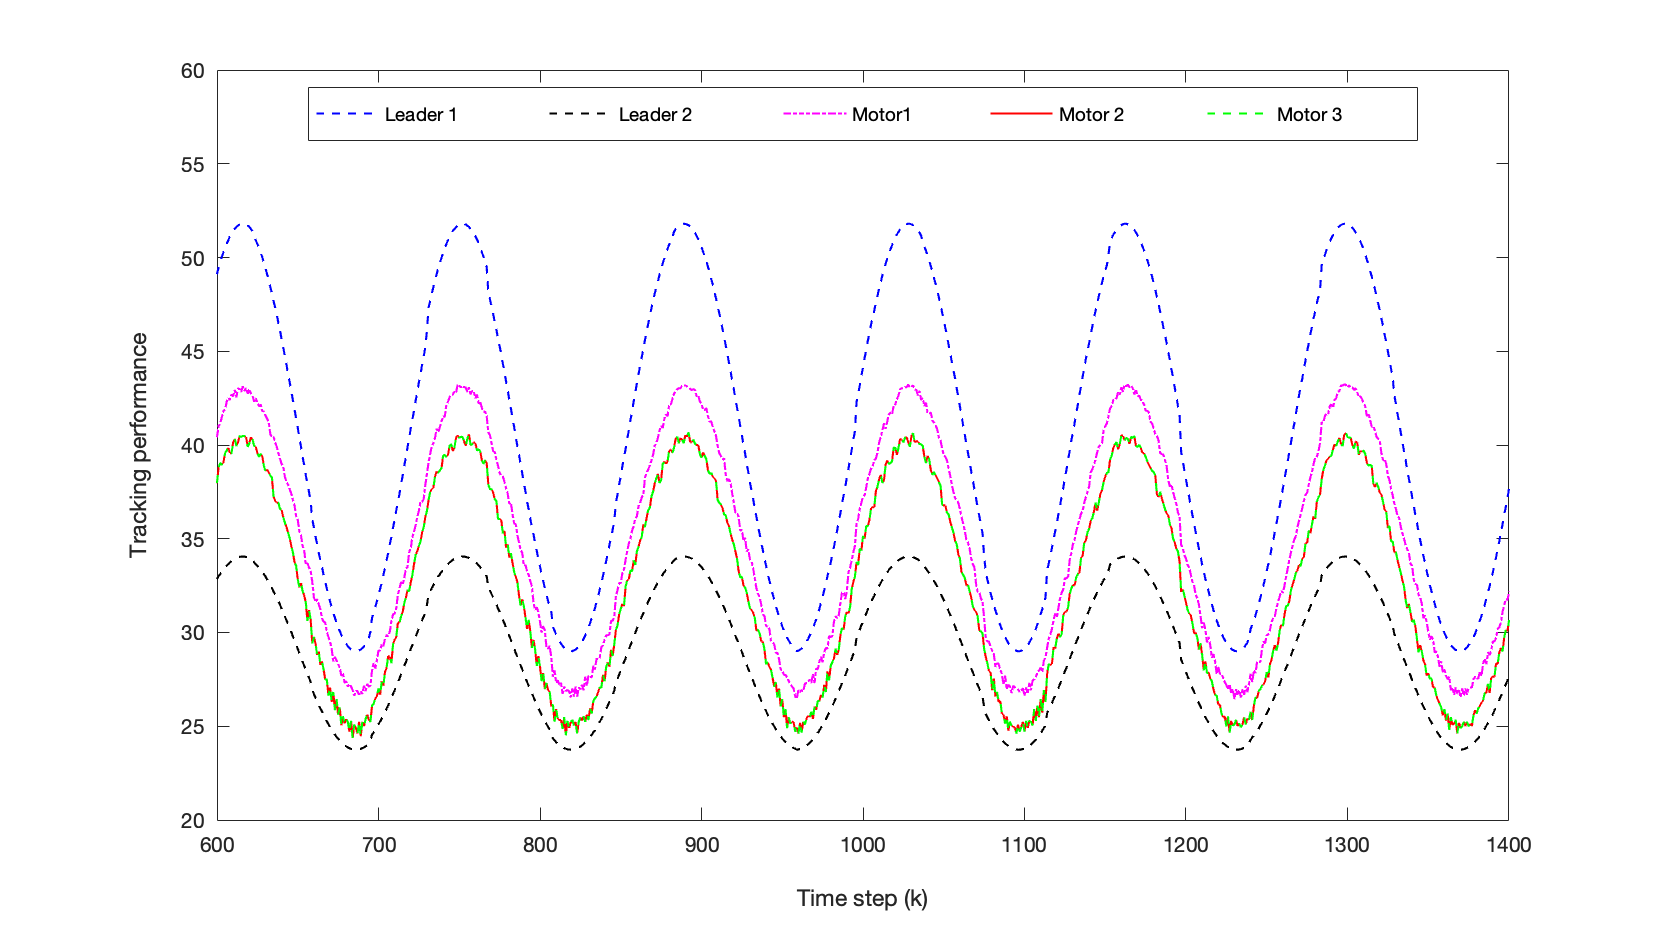
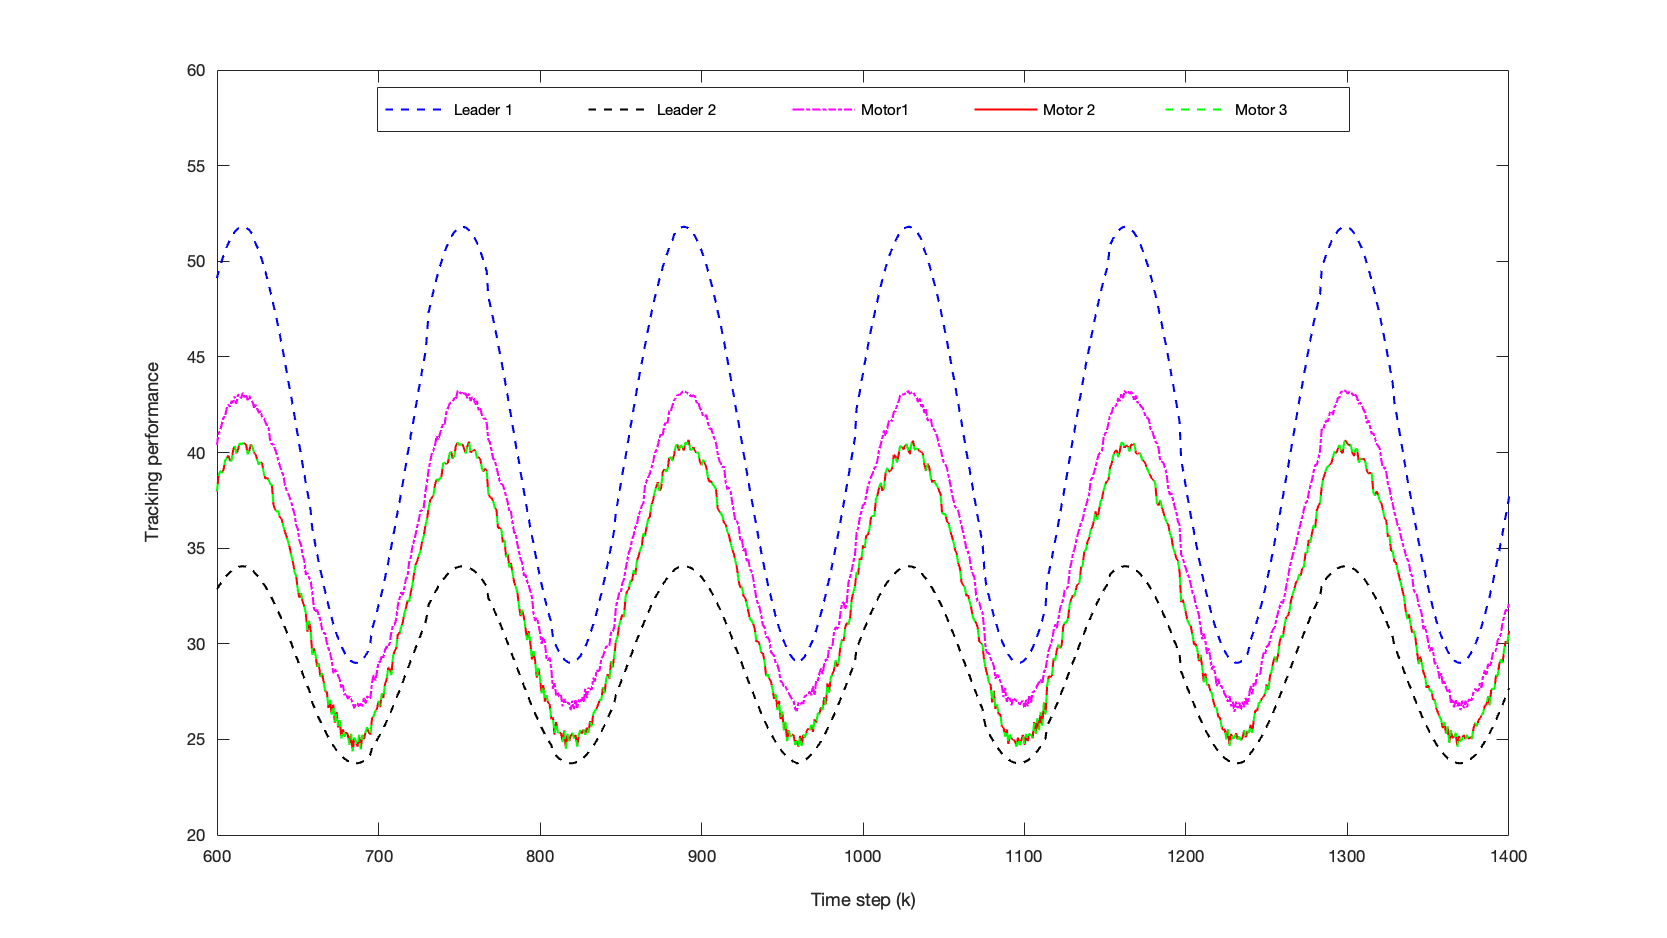
update the experimental image

diff --git a/dataplot.m b/dataplot.m
@@ -61,10 +61,12 @@ if ~isempty(ch3_data_match) && ~isempty(ch1_data_match) && ~isempty(ch2_data_mat
     
     % ylim([-1.5 3]); % Y-axis limits for Agent 4
 
+    font_size = 16;
+
     
   
-    xlabel('Time step (k)', 'FontSize', 20);
-    ylabel('Tracking performance', 'FontSize', 20);
+    xlabel('Time step (k)', 'FontSize', font_size);
+    ylabel('Tracking performance', 'FontSize', font_size);
 
     % zoom_x_start = 940; % Start of zoomed x-range
     % zoom_x_end = 980; % End of zoomed x-range
@@ -79,7 +81,7 @@ if ~isempty(ch3_data_match) && ~isempty(ch1_data_match) && ~isempty(ch2_data_mat
     % xlim([zoom_x_start zoom_x_end]);
 
     % yticks([-0.4,0,0.2]);
-    set(gca, 'FontSize', 20);
+    set(gca, 'FontSize', font_size);
     
     
     % Save the plot
